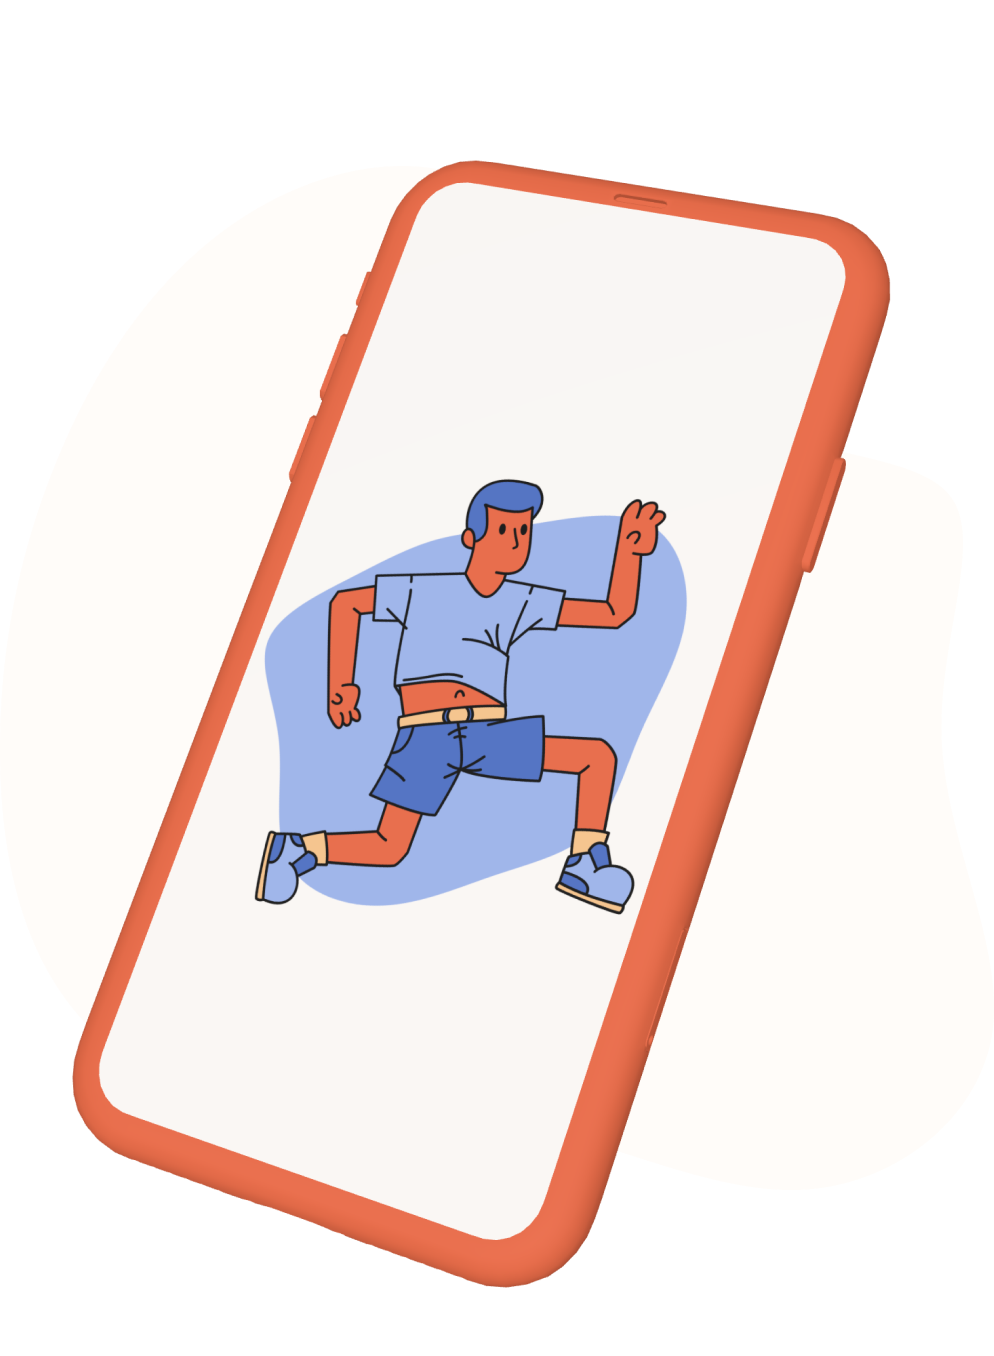
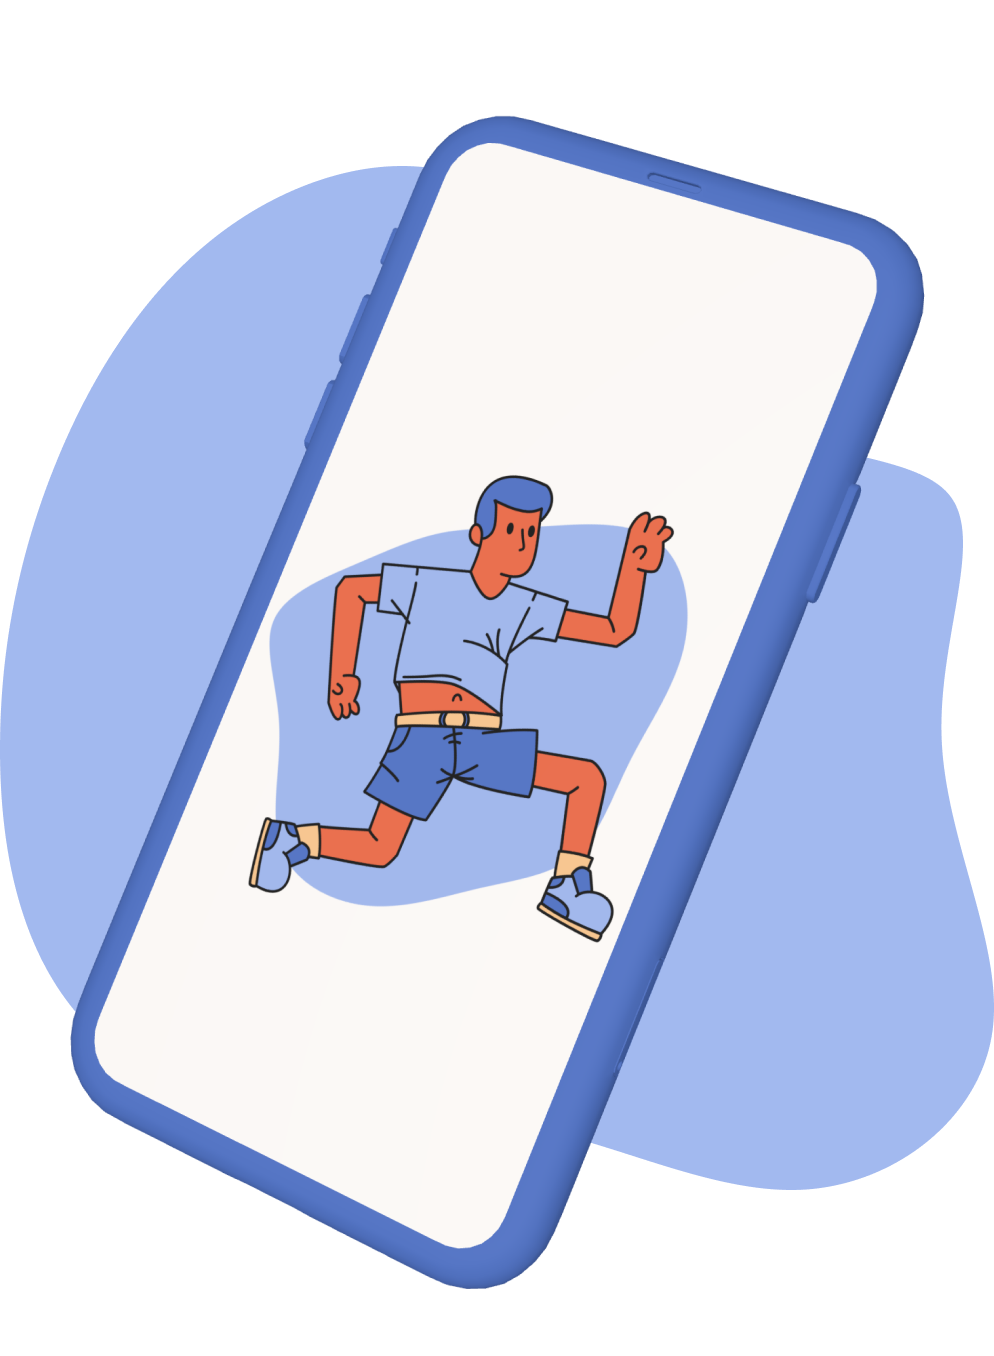
image changes and section sdded

diff --git a/jumpstart/src/App.jsx b/jumpstart/src/App.jsx
@@ -1,18 +1,18 @@
-import { LandingImage, Phone, Profile, Comma, Logo } from './assets/import'
+import { LandingImage, Phone, Profile, CommaRed, CommaBlue, Logo } from './assets/import'
 import './App.css'
 
 function App() {
 
   return (
     <div className="Content bg-white">
-      <div className="Navbar flex justify-between py-4 md:px-20 xl:px-60">
+      <div className="Navbar flex justify-between py-4 md:px-20 xl:px-60 px-4">
         <img src={Logo} alt="Logo" className=''/>
         <button className='py-2 px-4 bg-red shadow text-2xl font-space font-bold hover:bg-blue hover:text-white duration-300'>Join Now</button>
       </div>
 
-      <div className="Landing grid grid-cols-1 lg:grid-cols-2 place-items-center gap-8 md:px-20 xl:px-60 pb-4 px-4 bg-white">
+      <div className="Landing grid grid-cols-1 lg:grid-cols-2 place-items-center gap-8 md:px-20 xl:px-60 px-4 pb-[3rem] bg-white">
 
-        <img src={LandingImage} alt="LandingImage" className='h-[20rem] lg:h-[30rem] w-fit'/>
+        <img src={LandingImage} alt="LandingImage" className='object-contain h-[30rem]'/>
 
         <div className="Content">
           <div className="Header font-space text-6xl font-bold text-blue">Jump Into Action</div>
@@ -22,87 +22,82 @@ function App() {
         
       </div>
 
-      <div class="relative flex overflow-x-hidden bg-red hover:bg-blue duration-300 border-y-[3px]">
+      <div class="relative flex overflow-x-hidden bg-red hover:bg-blue hover:text-white duration-300 border-y-[3px] border-black cursor-default">
         <div class="py-2 animate-marquee whitespace-nowrap font-space font-bold">
-          <span class="text-4xl mx-14">Marquee Item 1</span>
-          <span class="text-4xl mx-14">Marquee Item 2</span>
-          <span class="text-4xl mx-14">Marquee Item 3</span>
-          <span class="text-4xl mx-14">Marquee Item 4</span>
-          <span class="text-4xl mx-14">Marquee Item 5</span>
+          <span class="text-4xl mx-14">Jump Start</span>
+          <span class="text-4xl mx-14">Jump Start</span>
+          <span class="text-4xl mx-14">Jump Start</span>
+          <span class="text-4xl mx-14">Jump Start</span>
+          <span class="text-4xl mx-14">Jump Start</span>
         </div>
 
         <div class="absolute top-0 py-2 animate-marquee2 whitespace-nowrap font-space font-bold">
-          <span class="text-4xl mx-14">Marquee Item 1</span>
-          <span class="text-4xl mx-14">Marquee Item 2</span>
-          <span class="text-4xl mx-14">Marquee Item 3</span>
-          <span class="text-4xl mx-14">Marquee Item 4</span>
-          <span class="text-4xl mx-14">Marquee Item 5</span>
+          <span class="text-4xl mx-14">Jump Start</span>
+          <span class="text-4xl mx-14">Jump Start</span>
+          <span class="text-4xl mx-14">Jump Start</span>
+          <span class="text-4xl mx-14">Jump Start</span>
+          <span class="text-4xl mx-14">Jump Start</span>
         </div>
       </div>
 
       <div className="User grid grid-cols-1 lg:grid-cols-3 gap-12 place-items-center py-[3rem] bg-white md:px-20 xl:px-60 px-4">
-
         <div className="shadow rounded-md bg-lightblue p-4">
           <div className="flex justify-between">
-            <div className="flex">
-              <div className="Profile w-24 h-24 mr-4"><div className="image"><img src={Profile} alt="LandingImage" className='rounded-full border-[3px]'/></div></div>
-              <div className="User">
-                <div className="Name font-space text-2xl font-bold">John Smith,</div>
-                <div className="Title font-space text-lg font-bold">CEO</div>
-              </div>
-            </div>
-            <div className="Comma"><img src={Comma} alt="LandingImage" className=''/></div>
+            <div className="Profile w-24 h-24 mr-4"><div className="image"><img src={Profile} alt="LandingImage" className='rounded-full border-[3px]'/></div></div>
+            <div className="Comma"><img src={CommaBlue} alt="Comma" className=''/></div>
           </div>
-          <div className="Content font-open pt-4">"Lorem ipsum dolor sit amet, consectetur adipiscing elit, sed do eiusmod tempor incididunt ut labore et dolore magna aliqua. Ut enim ad minim veniam, quis nostrud exercitation ullamco laboris nisi ut aliquip ex ea commodo consequat. Duis aute irure dolor in reprehenderit in voluptate velit esse cillum dolore eu fugiat nulla pariatur. Excepteur sint occaecat cupidatat non proident, sunt in culpa qui officia deserunt mollit anim id est laborum."</div>
+          <div className="Name font-space text-2xl font-bold pt-4">John Smith, CEO</div>
+          <div className="Content font-open">"Lorem ipsum dolor sit amet, consectetur adipiscing elit, sed do eiusmod tempor incididunt ut labore et dolore magna aliqua. Ut enim ad minim veniam, quis nostrud exercitation ullamco laboris nisi ut aliquip ex ea commodo consequat. Duis aute irure dolor in reprehenderit in voluptate velit esse cillum dolore eu fugiat nulla pariatur. Excepteur sint occaecat cupidatat non proident, sunt in culpa qui officia deserunt mollit anim id est laborum."</div>
         </div>
 
-
-        <div className="shadow rounded-md bg-lightblue p-4">
+        <div className="shadow rounded-md bg-lightred p-4">
           <div className="flex justify-between">
-            <div className="flex">
-              <div className="Profile w-24 h-24 mr-4"><div className="image"><img src={Profile} alt="LandingImage" className='rounded-full border-[3px]'/></div></div>
-              <div className="User">
-                <div className="Name font-space text-xl font-bold">John Smith,</div>
-                <div className="Title font-space text-lg font-bold">CEO</div>
-              </div>
-            </div>
-            <div className="Comma"><img src={Comma} alt="LandingImage" className=''/></div>
+            <div className="Profile w-24 h-24 mr-4"><div className="image"><img src={Profile} alt="LandingImage" className='rounded-full border-[3px]'/></div></div>
+            <div className="Comma"><img src={CommaRed} alt="Comma" className=''/></div>
           </div>
-          <div className="Content font-open pt-4">"Lorem ipsum dolor sit amet, consectetur adipiscing elit, sed do eiusmod tempor incididunt ut labore et dolore magna aliqua. Ut enim ad minim veniam, quis nostrud exercitation ullamco laboris nisi ut aliquip ex ea commodo consequat. Duis aute irure dolor in reprehenderit in voluptate velit esse cillum dolore eu fugiat nulla pariatur. Excepteur sint occaecat cupidatat non proident, sunt in culpa qui officia deserunt mollit anim id est laborum."</div>
+          <div className="Name font-space text-2xl font-bold pt-4">John Smith, CEO</div>
+          <div className="Content font-open">"Lorem ipsum dolor sit amet, consectetur adipiscing elit, sed do eiusmod tempor incididunt ut labore et dolore magna aliqua. Ut enim ad minim veniam, quis nostrud exercitation ullamco laboris nisi ut aliquip ex ea commodo consequat. Duis aute irure dolor in reprehenderit in voluptate velit esse cillum dolore eu fugiat nulla pariatur. Excepteur sint occaecat cupidatat non proident, sunt in culpa qui officia deserunt mollit anim id est laborum."</div>
         </div>
 
         <div className="shadow rounded-md bg-lightblue p-4">
           <div className="flex justify-between">
-            <div className="flex">
-              <div className="Profile w-24 h-24 mr-4"><div className="image"><img src={Profile} alt="LandingImage" className='rounded-full border-[3px]'/></div></div>
-              <div className="User">
-                <div className="Name font-space text-xl font-bold">John Smith,</div>
-                <div className="Title font-space text-lg font-bold">CEO</div>
-              </div>
-            </div>
-            <div className="Comma"><img src={Comma} alt="LandingImage" className=''/></div>
+            <div className="Profile w-24 h-24 mr-4"><div className="image"><img src={Profile} alt="LandingImage" className='rounded-full border-[3px]'/></div></div>
+            <div className="Comma"><img src={CommaBlue} alt="Comma" className=''/></div>
           </div>
-          <div className="Content font-open pt-4">"Lorem ipsum dolor sit amet, consectetur adipiscing elit, sed do eiusmod tempor incididunt ut labore et dolore magna aliqua. Ut enim ad minim veniam, quis nostrud exercitation ullamco laboris nisi ut aliquip ex ea commodo consequat. Duis aute irure dolor in reprehenderit in voluptate velit esse cillum dolore eu fugiat nulla pariatur. Excepteur sint occaecat cupidatat non proident, sunt in culpa qui officia deserunt mollit anim id est laborum."</div>
+          <div className="Name font-space text-2xl font-bold pt-4">John Smith, CEO</div>
+          <div className="Content font-open">"Lorem ipsum dolor sit amet, consectetur adipiscing elit, sed do eiusmod tempor incididunt ut labore et dolore magna aliqua. Ut enim ad minim veniam, quis nostrud exercitation ullamco laboris nisi ut aliquip ex ea commodo consequat. Duis aute irure dolor in reprehenderit in voluptate velit esse cillum dolore eu fugiat nulla pariatur. Excepteur sint occaecat cupidatat non proident, sunt in culpa qui officia deserunt mollit anim id est laborum."</div>
         </div>
 
       </div>
 
-      <div class="relative flex overflow-x-hidden bg-red hover:bg-blue duration-300 border-y-[3px]">
+      <div class="relative flex overflow-x-hidden bg-red hover:bg-blue hover:text-white duration-300 border-y-[3px] border-black cursor-default ">
         <div class="py-2 animate-marquee whitespace-nowrap font-space font-bold">
-          <span class="text-4xl mx-14">Marquee Item 1</span>
-          <span class="text-4xl mx-14">Marquee Item 2</span>
-          <span class="text-4xl mx-14">Marquee Item 3</span>
-          <span class="text-4xl mx-14">Marquee Item 4</span>
-          <span class="text-4xl mx-14">Marquee Item 5</span>
+          <span class="text-4xl mx-14">Jump Start</span>
+          <span class="text-4xl mx-14">Jump Start</span>
+          <span class="text-4xl mx-14">Jump Start</span>
+          <span class="text-4xl mx-14">Jump Start</span>
+          <span class="text-4xl mx-14">Jump Start</span>
         </div>
 
         <div class="absolute top-0 py-2 animate-marquee2 whitespace-nowrap font-space font-bold">
-          <span class="text-4xl mx-14">Marquee Item 1</span>
-          <span class="text-4xl mx-14">Marquee Item 2</span>
-          <span class="text-4xl mx-14">Marquee Item 3</span>
-          <span class="text-4xl mx-14">Marquee Item 4</span>
-          <span class="text-4xl mx-14">Marquee Item 5</span>
+          <span class="text-4xl mx-14">Jump Start</span>
+          <span class="text-4xl mx-14">Jump Start</span>
+          <span class="text-4xl mx-14">Jump Start</span>
+          <span class="text-4xl mx-14">Jump Start</span>
+          <span class="text-4xl mx-14">Jump Start</span>
         </div>
+      </div>
+
+      <div className="Landing grid grid-cols-1 lg:grid-cols-2 place-items-center gap-8 md:px-20 xl:px-60 py-[3rem] px-4 bg-white">
+
+        <div className="Content">
+          <div className="Header font-space text-6xl font-bold text-blue">Jump Into Action</div>
+          <div className="SubHeader font-space text-xl font-bold py-2 text-black">Lorem ipsum dolor sit amet, consectetur adipiscing elit, sed do eiusmod tempor incididunt ut labore et dolore magna aliqua.</div>
+          <button className='py-2 px-4 bg-red shadow text-2xl font-space font-bold hover:bg-blue hover:text-white duration-300'>Join Now</button>
+        </div>
+
+        <img src={Phone} alt="LandingImage" className='object-contain h-[30rem]'/>      
+
       </div>
 
     </div>

diff --git a/jumpstart/src/assets/import.js b/jumpstart/src/assets/import.js
@@ -1,5 +1,6 @@
 export { default as LandingImage } from './LandingImage.png';
 export { default as Phone } from './Phone.png';
 export { default as Profile } from './Profile.png';
-export { default as Comma } from './Comma.png';
+export { default as CommaRed } from './CommaRed.png';
+export { default as CommaBlue } from './CommaBlue.png';
 export { default as Logo } from './Logo.png';

diff --git a/jumpstart/index.html b/jumpstart/index.html
@@ -2,7 +2,7 @@
 <html lang="en">
   <head>
     <meta charset="UTF-8" />
-    <link rel="icon" type="image/svg+xml" href="/vite.svg" />
+    <link rel="icon" type="image/svg+xml" href="/jump.svg" />
     <meta name="viewport" content="width=device-width, initial-scale=1.0" />
     <title>Jumper</title>
     <link rel="preconnect" href="https://fonts.googleapis.com">

diff --git a/jumpstart/tailwind.config.js b/jumpstart/tailwind.config.js
@@ -9,6 +9,7 @@ export default {
       transparent: 'transparent',
       current: 'currentColor',
       'red': '#ED6D48',
+      'lightred': '#EFBEA2',
       'blue': '#5174C7',
       'lightblue': '#A2B9EF',
       'white': '#FFFCF9',
